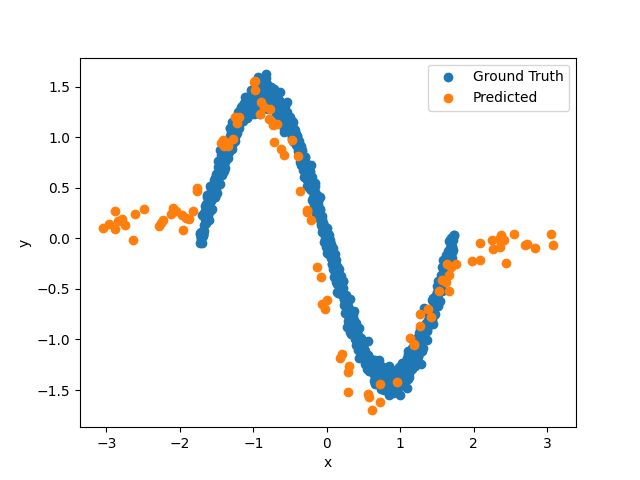
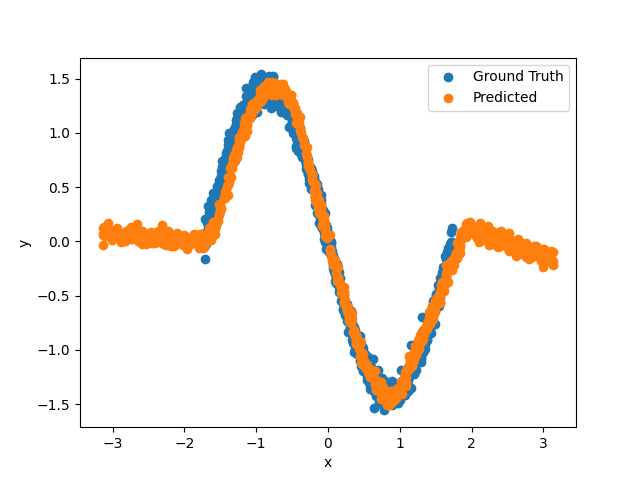
mbd score

diff --git a/modril/modril/model_base_diffusion.py b/modril/modril/model_base_diffusion.py
@@ -14,7 +14,7 @@ class MBDScore:
             temp_sample: float = 0.1,
             num_diffusion_steps: int = 1000,
             num_mc: int = 32,
-            use_reward_score=True
+            use_reward_score=False
     ):
         """
         Initialize the diffusion-based trajectory optimizer with PyTorch.
@@ -38,41 +38,42 @@ class MBDScore:
         np.random.seed(seed)
 
         # Default parameters
-        self.temp_sample = 0.1
-        self.Ndiffuse = 100
         self.Nsample = 200
         self.Hsample = 40
+        self.num_diffusion_steps = num_diffusion_steps
+        self.num_mc = num_mc
+        self.alphas = torch.linspace(1.0, 1e-3, num_diffusion_steps + 1, device=self.device)
+
+        self.temp_sample = temp_sample
         self.beta0 = 1e-4
         self.betaT = 0.02
 
-        self.num_diffusion_steps = num_diffusion_steps
-        self.alphas = torch.linspace(1.0, 1e-3, num_diffusion_steps + 1, device=self.device)
-        self.num_mc = num_mc
 
         # Recommended parameters for specific environments
         self.recommended_params = {
-            "temp_sample": {"mdoc": 0.1},
-            "Ndiffuse": {"mdoc": 100},
-            "Nsample": {"mdoc": 200},
-            "Hsample": {"mdoc": 40}
+            "temp_sample": {"toy": 0.1},
+            "num_diffusion_steps": {"toy": 100},
+            "Nsample": {"toy": 200},
+            "Hsample": {"toy": 1000}
         }
 
         # Initialize environment parameters
         self._setup_environment()
+        self._setup_diffusion_params()
 
     def _setup_environment(self):
         """Initialize the environment and related parameters."""
         # Apply recommended parameters if not disabled
         if not self.disable_recommended_params:
-            for param_name in ["temp_sample", "Ndiffuse", "Nsample", "Hsample"]:
+            for param_name in ["temp_sample", "num_diffusion_steps", "Nsample", "Hsample"]:
                 recommended_value = self.recommended_params[param_name].get(
                     self.env_name, getattr(self, param_name)
                 )
                 setattr(self, param_name, recommended_value)
             print(f"Using recommended parameters: temp_sample={self.temp_sample}")
 
-        self.Nx = self.env.observation_size
-        self.Nu = self.env.action_size
+        self.Nx = self.env.state_dim
+        self.Nu = self.env.action_dim
 
         # Reset environment to initial state
         self.state_init = self.env.reset()
@@ -80,7 +81,7 @@ class MBDScore:
     def _setup_diffusion_params(self):
         """Calculate diffusion process parameters."""
         # Create tensors on the specified device
-        self.betas = torch.linspace(self.beta0, self.betaT, self.Ndiffuse, device=self.device)
+        self.betas = torch.linspace(self.beta0, self.betaT, self.num_diffusion_steps, device=self.device)
         self.alphas = 1.0 - self.betas
         self.alphas_bar = torch.cumprod(self.alphas, dim=0)
         self.sigmas = torch.sqrt(1 - self.alphas_bar)
@@ -92,7 +93,15 @@ class MBDScore:
         self.sigmas_cond = torch.sqrt(Sigmas_cond)
         self.sigmas_cond[0] = 0.0
 
-        print(f"Initial sigma = {self.sigmas[-1].item():.2e}")
+    def _foward_diffusion(self, Y0: torch.Tensor) -> torch.Tensor:
+        y = Y0.clone()
+        for i in range(self.num_diffusion_steps):
+            eps = torch.randn_like(y)
+            alpha_i = self.alphas[i]  # α_i
+            y = torch.sqrt(alpha_i) * y + torch.sqrt(1.0 - alpha_i) * eps  # Y_i
+        alpha_bar_N = self.alphas_bar[self.num_diffusion_steps-1]  # \bar α_N
+        y_bar_N = y / torch.sqrt(alpha_bar_N)
+        return y_bar_N
 
     def _reverse_diffusion_step(self, i, Ybar_i):
         """
@@ -109,7 +118,9 @@ class MBDScore:
         Yi = Ybar_i * torch.sqrt(self.alphas_bar[i])
 
         # Sample from q_i
-        eps_u = torch.randn((self.num_diffusion_steps, self.Hsample, self.Nu), device=self.device)
+
+        eps_u = torch.randn((self.Nsample, self.Hsample, self.Nu), device=self.device, dtype=Ybar_i.dtype)
+        # Y0s = eps_u * self.sigmas[i] + Ybar_i.unsqueeze(0)
         Y0s = eps_u * self.sigmas[i] + Ybar_i
         Y0s = torch.clamp(Y0s, -1.0, 1.0)
 
@@ -129,6 +140,7 @@ class MBDScore:
 
         # Update trajectory using weighted average
         weights = torch.nn.functional.softmax(logp0, dim=0)
+        Y0s = Y0s.to(weights.dtype)
         Ybar = torch.einsum("n,nij->ij", weights, Y0s)
 
         # Compute score function and update
@@ -138,13 +150,12 @@ class MBDScore:
 
         return score, Yim1, Ybar_im1, rews.mean().item()
 
-    def _reverse_diffusion_step_prior(self, y_i, i):
+    def _reverse_diffusion_step_prior(self, i, y_i):
         B, D = y_i.shape
         alpha_i = self.alphas[i]
         sqrt_ai = torch.sqrt(alpha_i)
         sqrt_one_minus_ai = torch.sqrt(1.0 - alpha_i)
 
-        # sampling y0^{(m)}，and calculate ∇_{y0} log p_0 (若 p_0 ~ 𝒩(0,𝟙) ⇒ grad = −y0)
         eps = torch.randn(B, self.num_mc, D, device=y_i.device)
         y0 = (y_i.unsqueeze(1) - sqrt_ai * eps) / sqrt_one_minus_ai  # [B,M,D]
         grad_y0 = -y0  # ∇ log p_0
@@ -168,6 +179,7 @@ class MBDScore:
             if done:
                 break
         return np.array(rews), states
+
     def _rollout_b(self, states0, actions):
         """ Batched rollout."""
         B, T = actions.shape[:2]
@@ -175,10 +187,8 @@ class MBDScore:
         states = [states0.copy()]  # list 长 T+1
         cur_states = states0.copy()
         done_mask = np.zeros(B, dtype=bool)  # False = still alive
-
         for t in range(T):
-            a_t = actions[:, t] # a_t: [B, Nu]
-
+            a_t = actions[:, t]  # a_t: [B, Nu]
             if hasattr(self.env, "batch_step"):
                 next_states, r_t, done_t, _ = self.env.batch_step(cur_states, a_t)
             else:
@@ -196,10 +206,8 @@ class MBDScore:
             next_states = np.asarray(next_states)
             rews[~done_mask, t] = r_t[~done_mask]
             done_mask |= done_t
-
             cur_states = next_states
             states.append(cur_states.copy())
-
             if done_mask.all():
                 states.extend([cur_states.copy()] * (T - t - 1))
                 break
@@ -215,6 +223,13 @@ class MBDScore:
         """
         Ye = torch.as_tensor(Ye, dtype=torch.float32, device=self.device)
         Ya = torch.as_tensor(Ya, dtype=torch.float32, device=self.device)
+
+        if Ye.dim() == 1:
+            Ye = Ye.unsqueeze(1)
+
+        if Ya.dim() == 1:
+            Ya = Ya.unsqueeze(1)
+
         with torch.no_grad():
             if self.use_reward_score:
                 g_E = self._logp_change_reward(Ye)
@@ -223,16 +238,6 @@ class MBDScore:
                 g_E = self._estimate_logp_change(Ye)
                 g_A = self._estimate_logp_change(Ya)
         return (g_E - g_A).cpu().numpy()
-
-    def _foward_diffusion(self, Y0: torch.Tensor) -> torch.Tensor:
-        y = Y0.clone()
-        for i in range(1, self.num_diffusion_steps + 1):
-            eps = torch.randn_like(y)
-            alpha_i = self.alphas[i]  # α_i
-            y = torch.sqrt(alpha_i) * y + torch.sqrt(1.0 - alpha_i) * eps  # Y_i
-        alpha_bar_N = self.alphas_bar[self.num_diffusion_steps]  # \bar α_N
-        y_bar_N = y / torch.sqrt(alpha_bar_N)
-        return y_bar_N
 
     def _estimate_logp_change(self, y0):
         B, D = y0.shape
@@ -245,14 +250,13 @@ class MBDScore:
             for i in pbar:
                 a_i = alphas[i]  # α_i
                 a_prev = alphas[i - 1]  # α_{i-1}
-                score = self._reverse_diffusion_step_prior(y_i, i)
+                score = self._reverse_diffusion_step_prior(i, y_i)
                 beta_i = 1.0 - a_prev / a_i
                 std = torch.sqrt(beta_i)
                 eps = torch.randn_like(y_i)
                 y_prev = (1.0 / torch.sqrt(a_prev)) * (y_i - std * eps)
                 logp_change += (score * (y_prev - y_i)).sum(dim=-1)
                 y_i = y_prev  # for next iteration
-
         return logp_change
 
     def _logp_change_reward(self, Y0):
@@ -261,8 +265,7 @@ class MBDScore:
         """
         Ybar = self._foward_diffusion(Y0)
         g = torch.zeros(Y0.shape[0], device=self.device)
-
-        for i in reversed(range(1, self.num_diffusion_steps + 1)):
+        for i in reversed(range(0, self.num_diffusion_steps)):
             score, Y_i_minus1, Ybar, _ = self._reverse_diffusion_step(i, Ybar)
             g += (score * Y_i_minus1 - (Ybar * torch.sqrt(self.alphas_bar[i]))).sum(dim=-1)
         return g

diff --git a/modril/toy/trainer.py b/modril/toy/trainer.py
@@ -7,7 +7,7 @@ import datetime
 from modril.toy.env import Environment
 from modril.toy.utils import norm_state
 from modril.toy.policy import PPO
-from modril.toy.gail import DRAIL, GAIL, GAIL_MI, GAIL_Flow
+from modril.toy.gail import DRAIL, GAIL, GAIL_MI, GAIL_Flow, GAIL_MBD
 from modril.toy.discriminators import FFJORDDensity, FlowMatching
 from modril.toy.toy_tasks import *
 
@@ -33,7 +33,7 @@ class Trainer:
             function,
             method,
             n_episode=1000,
-            steps=100,
+            steps=1000,
             hidden_dim=128,
             actor_lr=1e-3,
             critic_lr=1e-2,
@@ -91,6 +91,8 @@ class Trainer:
             self.trainer = GAIL_MI(self.agent, self.state_dim, self.action_dim, disc_lr=self.lr, device=self.device, mode=method)
         elif method in ('ffjord', 'fm'):
             self.trainer = GAIL_Flow(self.agent, self.state_dim, self.action_dim, device=self.device, mode=method, lr=1e-3)
+        elif method == 'modril':
+            self.trainer = GAIL_MBD(self.agent, env=self.task.env, env_name="toy", device=self.device)
         else:
             raise ValueError(f"Unknown method {method}")
 
@@ -166,7 +168,8 @@ class Trainer:
                 state_list, action_list, next_state_list = [], [], []
                 for step in range(self.steps):
                     action = self.agent.take_action(state)
-                    next_state, true_y = self.env.step(state, action)
+                    next_state, reward, done, info = self.env.step(state, action)
+                    # next_state, true_y = self.env.step(state, action)
                     state_list.append(state)
                     action_list.append(action)
                     next_state_list.append(next_state)

diff --git a/modril/toy/toy_tasks.py b/modril/toy/toy_tasks.py
@@ -30,7 +30,7 @@ class Sine1D(TaskBase):
         a_norm, self.a_mu, self.a_std = normalize(y[:, None])
         self.expert_s = s_norm
         self.expert_a = a_norm
-        self.env = Environment(np.hstack([self.expert_s, self.expert_a]), x)
+        self.env = Environment(np.hstack([self.expert_s, self.expert_a]), x, self.state_dim, self.action_dim)
 
     @property
     def state_dim(self):
@@ -57,7 +57,7 @@ class MultiSine1D(TaskBase):
         a_norm, self.a_mu, self.a_std = normalize(y[:, None])
         self.expert_s = s_norm
         self.expert_a = a_norm
-        self.env = Environment(np.hstack([self.expert_s, self.expert_a]), x)
+        self.env = Environment(np.hstack([self.expert_s, self.expert_a]), x, self.state_dim, self.action_dim)
 
     @property
     def state_dim(self):
@@ -84,7 +84,7 @@ class GaussSine1D(TaskBase):
         a_norm, self.a_mu, self.a_std = normalize(y[:, None])
         self.expert_s = s_norm
         self.expert_a = a_norm
-        self.env = Environment(np.hstack([self.expert_s, self.expert_a]), x)
+        self.env = Environment(np.hstack([self.expert_s, self.expert_a]), x, self.state_dim, self.action_dim)
 
     @property
     def state_dim(self):
@@ -111,7 +111,7 @@ class Poly1D(TaskBase):
         a_norm, self.a_mu, self.a_std = normalize(y[:, None])
         self.expert_s = s_norm
         self.expert_a = a_norm
-        self.env = Environment(np.hstack([self.expert_s, self.expert_a]), x)
+        self.env = Environment(np.hstack([self.expert_s, self.expert_a]), x, self.state_dim, self.action_dim)
 
     @property
     def state_dim(self):

diff --git a/modril/toy/env.py b/modril/toy/env.py
@@ -24,7 +24,7 @@ class Environment2D:
 
 
 class Environment:
-    def __init__(self, data_raw, x_raw):
+    def __init__(self, data_raw, x_raw, state_dim, action_dim):
         """
         data_raw : ndarray  shape (N,2) ,  [:,0] = x_raw , [:,1] = y
         x_raw    : ndarray
@@ -33,6 +33,8 @@ class Environment:
         self.x_norm = norm_state(x_raw)  # (−π,π)
         self.data_raw = data_raw  #
         self.tolerance = 1e-3
+        self.state_dim = state_dim
+        self.action_dim = action_dim
 
     def _raw_to_norm(self, x):
         return norm_state(x)
@@ -51,5 +53,10 @@ class Environment:
 
     def step(self, state_norm, predicted_y):
         true_y = self.get_true_y(state_norm)
+        error = predicted_y - true_y
+        reward = - error ** 2
+        reward = sum(reward) / len(reward)
+        done = True
         next_state = self.reset()
-        return next_state, true_y
+        info = {"true_y": true_y, "error": error}
+        return next_state, reward, done, info

diff --git a/modril/toy/gail.py b/modril/toy/gail.py
@@ -203,11 +203,13 @@ class GAIL_Flow:
             )
         )
 
+
 # ============================================================
 #  Model-Based Diffusion - occupancy-reward
 # ============================================================
 class GAIL_MBD:
     """"""
+
     def __init__(
             self,
             agent,
@@ -216,7 +218,7 @@ class GAIL_MBD:
             device='cuda',
             mbd_kwargs: dict | None = None
     ):
-        self.mbd = MBDScore(env, env_name, device=device,**(mbd_kwargs or {}))
+        self.mbd = MBDScore(env, env_name, device=device, **(mbd_kwargs or {}))
         self.agent = agent
         self.device = device
 

diff --git a/modril/toy/discriminators.py b/modril/toy/discriminators.py
@@ -87,11 +87,6 @@ class Discriminator(nn.Module):
     # ===================================
     def _mfd_q_sample(self, x0, t, eps):
         """forward diffusion"""
-        # B = x0.size(0)
-        # x0_flat = x0.view(B, -1)  # (B, x_dim)
-        # eps_flat = eps.view(B, -1)  # (B, x_dim)
-        # a_bar = self.alphas_bar[t].view(-1, 1)
-        # return (a_bar.sqrt() * x0_flat) + ((1 - a_bar).sqrt() * eps_flat)
         a_bar = self.alphas_bar[t].view(-1, 1)
         return (a_bar.sqrt() * x0) + ((1 - a_bar).sqrt() * eps)
 
